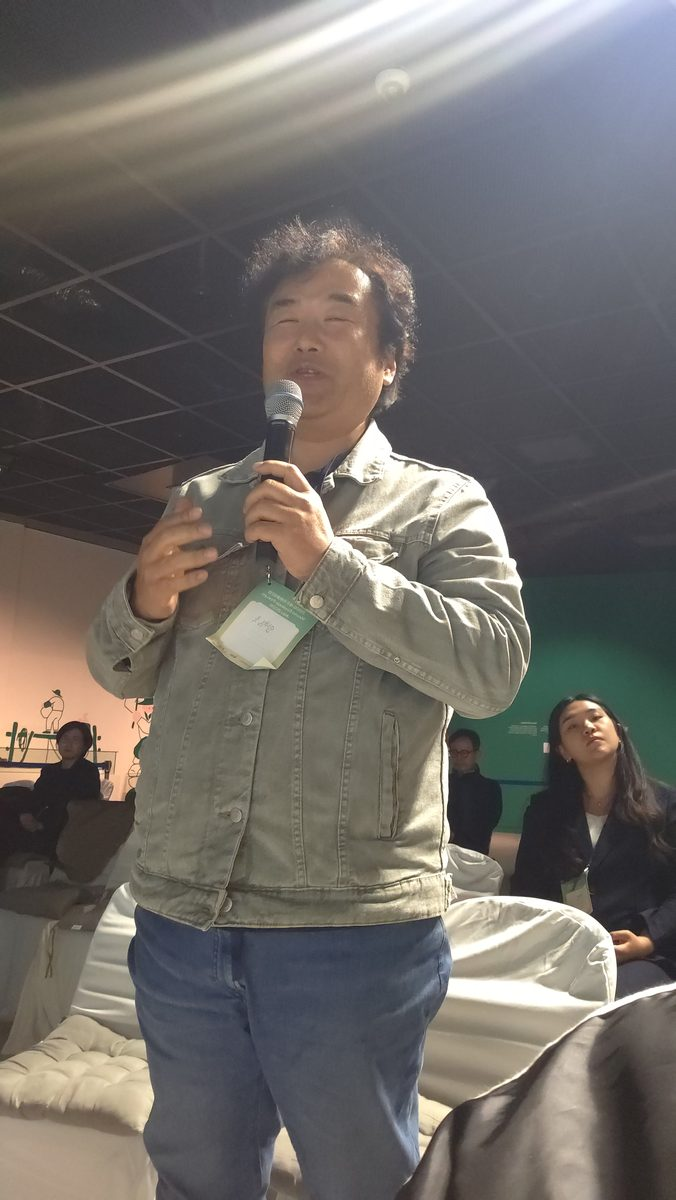
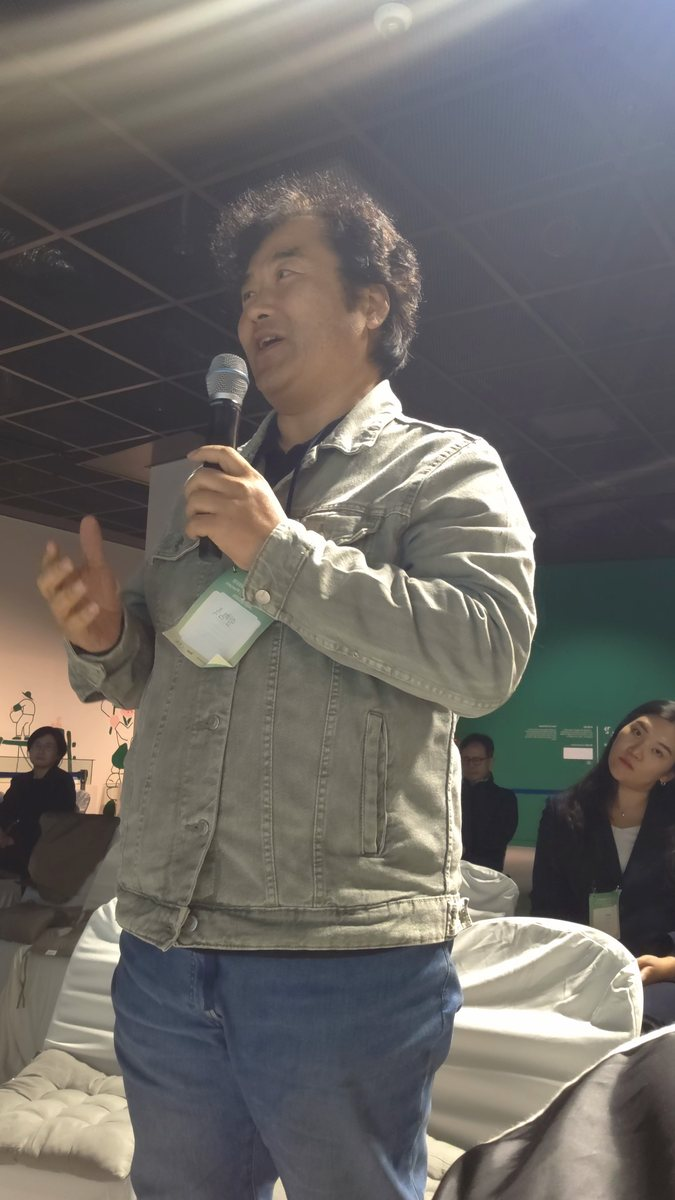
포럼 기록: 눈 감은 사진 교체, 얼굴 보이는 썸네일, 원본 내려받기 제거

diff --git a/events/2026-11-stonepark/record/index.html b/events/2026-11-stonepark/record/index.html
@@ -24,6 +24,7 @@
 .rv-photos{display:grid;gap:14px;grid-template-columns:repeat(auto-fill,minmax(260px,1fr));margin-top:14px}
 .rv-photos figure{margin:0;background:var(--card);border:1px solid var(--line);border-radius:12px;overflow:hidden}
 .rv-photos img{display:block;width:100%;aspect-ratio:4/3;object-fit:cover}
+.rv-photos img.wide{aspect-ratio:auto;object-fit:contain}
 .rv-photos figcaption{padding:10px 12px;font-size:.92rem;display:flex;justify-content:space-between;gap:10px;align-items:baseline}
 .rv-photos figcaption a{white-space:nowrap;font-size:.86rem}
 .rv-photos h3{grid-column:1/-1;margin:14px 0 0;font-size:1.02rem}
@@ -235,32 +236,29 @@
 
 <section><div class="wrap">
   <h2>사진</h2>
-  <p class="rv-cap">사진을 누르면 크게 보이고, '원본'을 누르면 내려받습니다. 공개를 원하지 않는 사진은 <a href="../../../contact.html">문의</a>로 알려 주세요.</p>
+  <p class="rv-cap">사진을 누르면 크게 볼 수 있습니다.</p>
   <div class="rv-photos">
     <h3>포럼 현장과 설문대할망전시관</h3>
-    <figure><a href="photos/01_arrival.jpg" target="_blank" rel="noopener"><img src="web/01_arrival.jpg" alt="제주돌문화공원 설문대할망전시관 가는 길" loading="lazy"></a><figcaption><span>설문대할망전시관 가는 길</span><a href="photos/01_arrival.jpg" download>원본</a></figcaption></figure>
-    <figure><a href="photos/02_lobby.jpg" target="_blank" rel="noopener"><img src="web/02_lobby.jpg" alt="전시관 로비의 포럼 접수처" loading="lazy"></a><figcaption><span>전시관 로비의 포럼 접수처</span><a href="photos/02_lobby.jpg" download>원본</a></figcaption></figure>
-    <figure><a href="photos/03_forum_stage.jpg" target="_blank" rel="noopener"><img src="web/03_forum_stage.jpg" alt="2026 제주국제생태포럼 현수막이 걸린 회의장" loading="lazy"></a><figcaption><span>2026 제주국제생태포럼 회의장</span><a href="photos/03_forum_stage.jpg" download>원본</a></figcaption></figure>
-    <figure><a href="photos/04_exhibition_altar.jpg" target="_blank" rel="noopener"><img src="web/04_exhibition_altar.jpg" alt="설문대할망전시관 상설 전시" loading="lazy"></a><figcaption><span>설문대할망전시관 전시</span><a href="photos/04_exhibition_altar.jpg" download>원본</a></figcaption></figure>
-    <figure><a href="photos/05_exhibition_samseung.jpg" target="_blank" rel="noopener"><img src="web/05_exhibition_samseung.jpg" alt="삼승할망 본풀이 전시 벽면" loading="lazy"></a><figcaption><span>삼승할망 본풀이 전시</span><a href="photos/05_exhibition_samseung.jpg" download>원본</a></figcaption></figure>
-    <figure><a href="photos/06_lecture_performance.jpg" target="_blank" rel="noopener"><img src="web/06_lecture_performance.jpg" alt="미래 세대 렉처 퍼포먼스 「바다 위 땅」" loading="lazy"></a><figcaption><span>렉처 퍼포먼스 「바다 위 땅」</span><a href="photos/06_lecture_performance.jpg" download>원본</a></figcaption></figure>
-    <figure><a href="photos/07_choir.jpg" target="_blank" rel="noopener"><img src="web/07_choir.jpg" alt="포럼 무대의 합창 공연" loading="lazy"></a><figcaption><span>포럼 무대의 합창 공연</span><a href="photos/07_choir.jpg" download>원본</a></figcaption></figure>
-
-    <h3>제주 전문가 네트워크 발표</h3>
-    <figure><a href="photos/08_lee_youngung.jpg" target="_blank" rel="noopener"><img src="web/08_lee_youngung.jpg" alt="발표하는 이영웅 제주환경운동연합 사무처장" loading="lazy"></a><figcaption><span>이영웅 제주환경운동연합 사무처장</span><a href="photos/08_lee_youngung.jpg" download>원본</a></figcaption></figure>
-    <figure><a href="photos/09_yang_sunam.jpg" target="_blank" rel="noopener"><img src="web/09_yang_sunam.jpg" alt="발표하는 양수남 (사)제주자연의벗 사무처장" loading="lazy"></a><figcaption><span>양수남 (사)제주자연의벗 사무처장</span><a href="photos/09_yang_sunam.jpg" download>원본</a></figcaption></figure>
-    <figure><a href="photos/10_an_seonggwan.jpg" target="_blank" rel="noopener"><img src="web/10_an_seonggwan.jpg" alt="발표하는 안성관 다시바다 대표" loading="lazy"></a><figcaption><span>안성관 다시바다 대표</span><a href="photos/10_an_seonggwan.jpg" download>원본</a></figcaption></figure>
-    <figure><a href="photos/11_ko_title.jpg" target="_blank" rel="noopener"><img src="web/11_ko_title.jpg" alt="발표하는 고제량 (사)제주생태관광협회 협회장" loading="lazy"></a><figcaption><span>고제량 협회장 발표</span><a href="photos/11_ko_title.jpg" download>원본</a></figcaption></figure>
-    <figure><a href="photos/12_ko_podium.jpg" target="_blank" rel="noopener"><img src="web/12_ko_podium.jpg" alt="단상에서 이야기하는 고제량 협회장" loading="lazy"></a><figcaption><span>단상의 고제량 협회장</span><a href="photos/12_ko_podium.jpg" download>원본</a></figcaption></figure>
-    <figure><a href="photos/13_ko_slide_intro.jpg" target="_blank" rel="noopener"><img src="web/13_ko_slide_intro.jpg" alt="고제량 협회장 발표 화면 — 만나서 반갑습니다" loading="lazy"></a><figcaption><span>발표 화면 — 자기소개</span><a href="photos/13_ko_slide_intro.jpg" download>원본</a></figcaption></figure>
-    <figure><a href="photos/14_ko_slide_association.jpg" target="_blank" rel="noopener"><img src="web/14_ko_slide_association.jpg" alt="고제량 협회장 발표 화면 — (사)제주생태관광협회 소개" loading="lazy"></a><figcaption><span>발표 화면 — (사)제주생태관광협회</span><a href="photos/14_ko_slide_association.jpg" download>원본</a></figcaption></figure>
-    <figure><a href="photos/15_ko_slide_map40.jpg" target="_blank" rel="noopener"><img src="web/15_ko_slide_map40.jpg" alt="발표 화면 — 한국의 생태관광지 지도" loading="lazy"></a><figcaption><span>발표 화면 — 한국의 생태관광지</span><a href="photos/15_ko_slide_map40.jpg" download>원본</a></figcaption></figure>
-
-    <h3>토론과 소감</h3>
-    <figure><a href="photos/16_panel_ko.jpg" target="_blank" rel="noopener"><img src="web/16_panel_ko.jpg" alt="토론에서 가장 먼저 의견을 말하는 고제량 협회장" loading="lazy"></a><figcaption><span>토론에서 의견을 말하는 고제량 협회장</span><a href="photos/16_panel_ko.jpg" download>원본</a></figcaption></figure>
-    <figure><a href="photos/17_panel_wide.jpg" target="_blank" rel="noopener"><img src="web/17_panel_wide.jpg" alt="발표자 토론 — 네 명의 발표자가 함께 앉은 무대" loading="lazy"></a><figcaption><span>발표자 토론</span><a href="photos/17_panel_wide.jpg" download>원본</a></figcaption></figure>
-    <figure><a href="photos/18_panel_three.jpg" target="_blank" rel="noopener"><img src="web/18_panel_three.jpg" alt="토론에서 의견을 나누는 발표자들" loading="lazy"></a><figcaption><span>의견을 나누는 발표자들</span><a href="photos/18_panel_three.jpg" download>원본</a></figcaption></figure>
-    <figure><a href="photos/19_audience.jpg" target="_blank" rel="noopener"><img src="web/19_audience.jpg" alt="세션을 마치며 소감을 말하는 참석자" loading="lazy"></a><figcaption><span>소감을 말하는 참석자</span><a href="photos/19_audience.jpg" download>원본</a></figcaption></figure>
+    <figure><a href="web/01_arrival.jpg" target="_blank" rel="noopener"><img src="thumb/01_arrival.jpg" alt="제주돌문화공원 설문대할망전시관 가는 길" loading="lazy"></a><figcaption><span>설문대할망전시관 가는 길</span></figcaption></figure>
+    <figure><a href="web/02_lobby.jpg" target="_blank" rel="noopener"><img src="thumb/02_lobby.jpg" alt="전시관 로비의 포럼 접수처" loading="lazy"></a><figcaption><span>전시관 로비의 포럼 접수처</span></figcaption></figure>
+    <figure><a href="web/03_forum_stage.jpg" target="_blank" rel="noopener"><img src="thumb/03_forum_stage.jpg" alt="2026 제주국제생태포럼 현수막이 걸린 회의장" loading="lazy"></a><figcaption><span>2026 제주국제생태포럼 회의장</span></figcaption></figure>
+    <figure><a href="web/04_exhibition_altar.jpg" target="_blank" rel="noopener"><img src="thumb/04_exhibition_altar.jpg" alt="설문대할망전시관 상설 전시" loading="lazy"></a><figcaption><span>설문대할망전시관 전시</span></figcaption></figure>
+    <figure><a href="web/05_exhibition_samseung.jpg" target="_blank" rel="noopener"><img src="thumb/05_exhibition_samseung.jpg" alt="삼승할망 본풀이 전시 벽면" loading="lazy"></a><figcaption><span>삼승할망 본풀이 전시</span></figcaption></figure>
+    <figure><a href="web/06_lecture_performance.jpg" target="_blank" rel="noopener"><img src="thumb/06_lecture_performance.jpg" alt="미래 세대 렉처 퍼포먼스 「바다 위 땅」" loading="lazy"></a><figcaption><span>렉처 퍼포먼스 「바다 위 땅」</span></figcaption></figure>
+    <figure><a href="web/07_choir.jpg" target="_blank" rel="noopener"><img src="thumb/07_choir.jpg" alt="포럼 무대의 합창 공연" loading="lazy"></a><figcaption><span>포럼 무대의 합창 공연</span></figcaption></figure>
+    <h3>제주 전문가 네트워크 발표와 토론</h3>
+    <figure><a href="web/08_lee_youngung.jpg" target="_blank" rel="noopener"><img src="thumb/08_lee_youngung.jpg" alt="발표하는 이영웅 제주환경운동연합 사무처장" loading="lazy"></a><figcaption><span>이영웅 제주환경운동연합 사무처장</span></figcaption></figure>
+    <figure><a href="web/09_yang_sunam.jpg" target="_blank" rel="noopener"><img src="thumb/09_yang_sunam.jpg" alt="토론에서 의견을 말하는 양수남 (사)제주자연의벗 사무처장" loading="lazy"></a><figcaption><span>양수남 (사)제주자연의벗 사무처장</span></figcaption></figure>
+    <figure><a href="web/10_an_seonggwan.jpg" target="_blank" rel="noopener"><img src="thumb/10_an_seonggwan.jpg" alt="발표하는 안성관 다시바다 대표" loading="lazy"></a><figcaption><span>안성관 다시바다 대표</span></figcaption></figure>
+    <figure><a href="web/11_ko_speaking.jpg" target="_blank" rel="noopener"><img src="thumb/11_ko_speaking.jpg" alt="발표하는 고제량 (사)제주생태관광협회 협회장" loading="lazy"></a><figcaption><span>발표하는 고제량 협회장</span></figcaption></figure>
+    <figure><a href="web/12_ko_podium.jpg" target="_blank" rel="noopener"><img src="thumb/12_ko_podium.jpg" alt="단상에서 이야기하는 고제량 협회장" loading="lazy"></a><figcaption><span>단상의 고제량 협회장</span></figcaption></figure>
+    <figure><a href="web/13_ko_slide_intro.jpg" target="_blank" rel="noopener"><img src="thumb/13_ko_slide_intro.jpg" alt="고제량 협회장 발표 화면 — 만나서 반갑습니다" loading="lazy"></a><figcaption><span>발표 화면 — 자기소개</span></figcaption></figure>
+    <figure><a href="web/14_ko_slide_association.jpg" target="_blank" rel="noopener"><img src="thumb/14_ko_slide_association.jpg" alt="고제량 협회장 발표 화면 — (사)제주생태관광협회 소개" loading="lazy"></a><figcaption><span>발표 화면 — (사)제주생태관광협회</span></figcaption></figure>
+    <figure><a href="web/15_ko_slide_map40.jpg" target="_blank" rel="noopener"><img src="thumb/15_ko_slide_map40.jpg" alt="발표 화면 — 한국의 생태관광지 지도" loading="lazy"></a><figcaption><span>발표 화면 — 한국의 생태관광지</span></figcaption></figure>
+    <figure><a href="web/16_panel_ko.jpg" target="_blank" rel="noopener"><img src="thumb/16_panel_ko.jpg" alt="토론에서 가장 먼저 의견을 말하는 고제량 협회장" loading="lazy"></a><figcaption><span>토론에서 의견을 말하는 고제량 협회장</span></figcaption></figure>
+    <figure><a href="web/17_panel_wide.jpg" target="_blank" rel="noopener"><img class="wide" src="thumb/17_panel_wide.jpg" alt="발표자 토론 — 네 명의 발표자가 함께 앉은 무대" loading="lazy"></a><figcaption><span>발표자 토론</span></figcaption></figure>
+    <figure><a href="web/18_panel_three.jpg" target="_blank" rel="noopener"><img src="thumb/18_panel_three.jpg" alt="토론에서 의견을 나누는 발표자들" loading="lazy"></a><figcaption><span>의견을 나누는 발표자들</span></figcaption></figure>
+    <figure><a href="web/19_audience.jpg" target="_blank" rel="noopener"><img src="thumb/19_audience.jpg" alt="세션을 마치며 소감을 말하는 참석자" loading="lazy"></a><figcaption><span>소감을 말하는 참석자</span></figcaption></figure>
   </div>
 </div></section>
 
@@ -280,7 +278,7 @@
 <section><div class="wrap">
   <h2>출처</h2>
   <ul class="rv-src">
-    <li>사진: 현장 촬영 (발표 화면 사진은 현장 영상에서 뽑은 장면)</li>
+    <li>사진: 현장 촬영 (일부는 현장 영상에서 뽑은 장면)</li>
     <li>내용: 세션 현장 기록(발표·토론), 2026 제주국제생태포럼 공식 누리집 세션 안내·일정, 위 관련 기사</li>
   </ul>
 </div></section>
